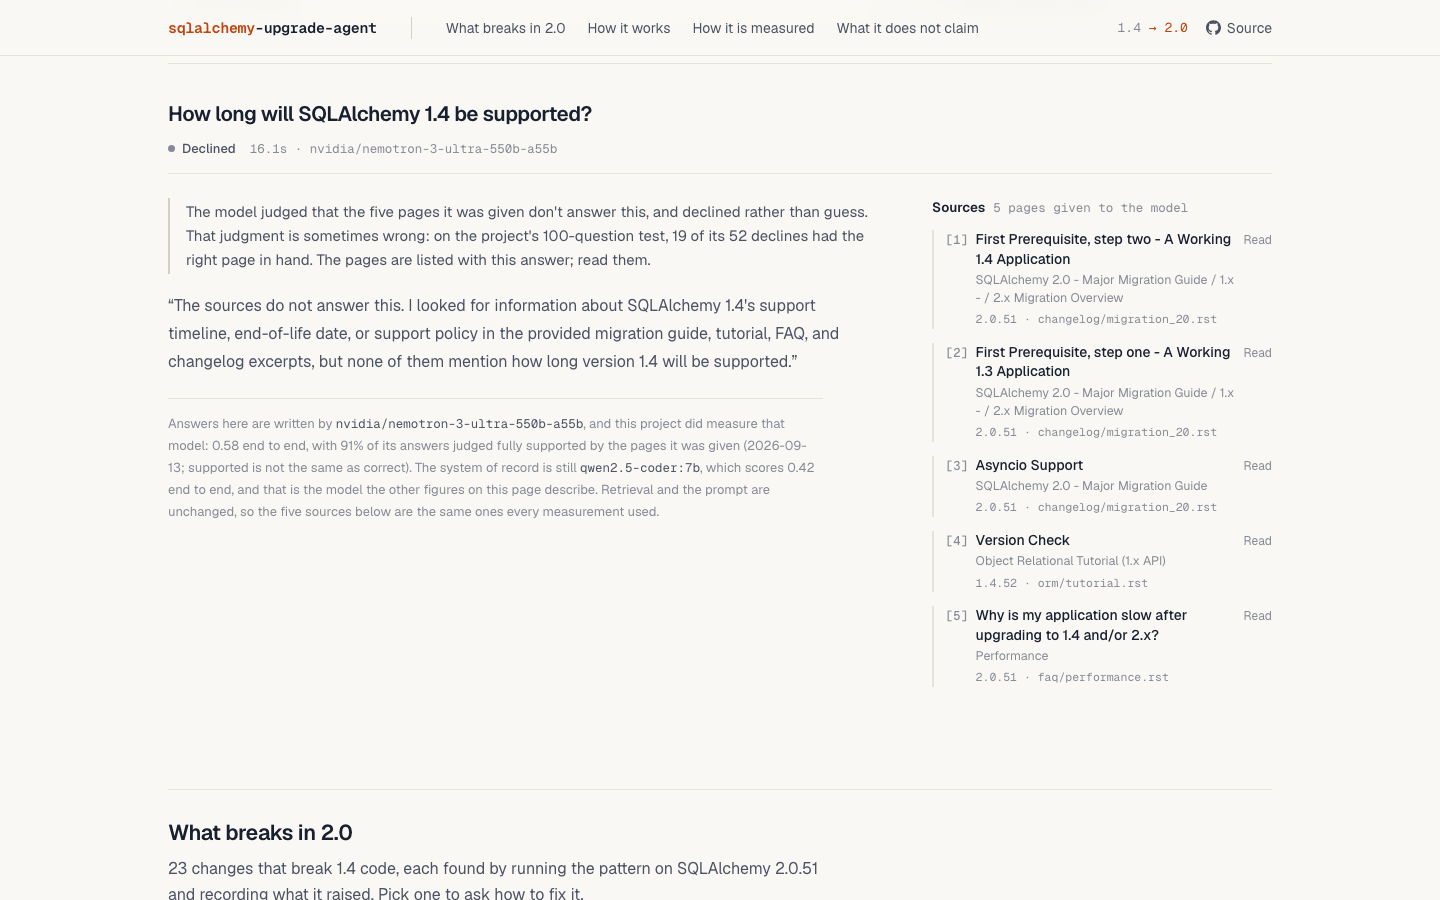
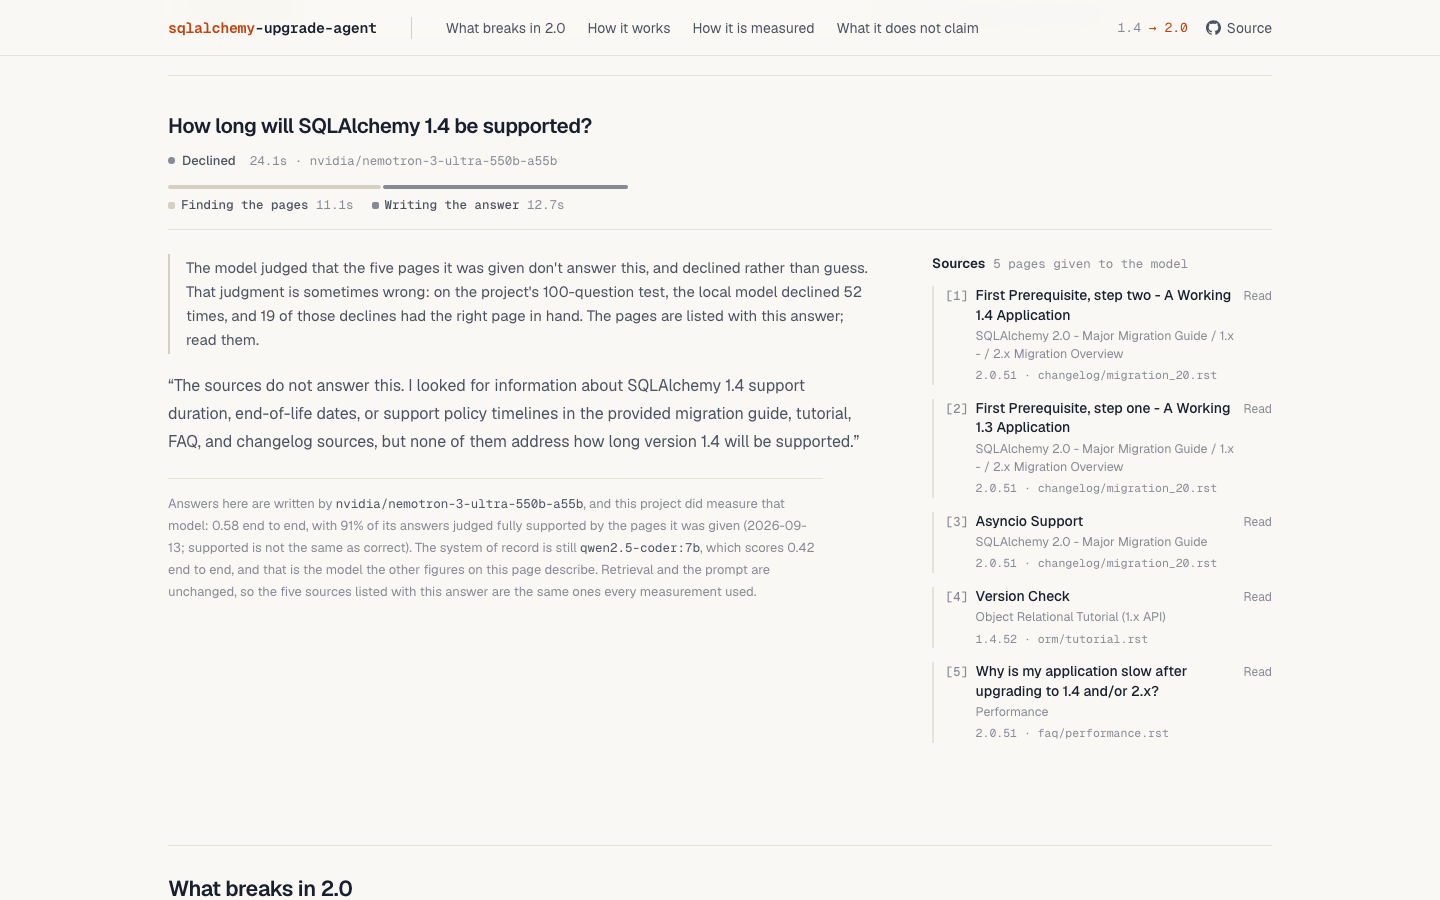
docs: retake the answered and declined screenshots from the live page
Both now show the time split under the status line, and the declined note in
its corrected wording. Taken from the deployed page at 1440x900.

tools/check_page_live.py looked for the working state 300 ms after a click; the
page now holds it back 600 ms so a rejected question does not blink the answer
away, so the check looks at 900 ms. 19 of 19 against the deployed page.

diff --git a/tools/check_page_live.py b/tools/check_page_live.py
@@ -73,7 +73,10 @@ with sync_playwright() as p:
     print("\nSEND BUTTON")
     pg.fill("#q", "engine.execute is gone, how do I run a select in 2.0")
     pg.click("#ask")
-    pg.wait_for_timeout(300)
+    # The page holds the working state back 600 ms, so that a question the server
+    # rejects at once is reported in the box without the answer on screen blinking
+    # away. Looking at 300 ms would see the old answer still there.
+    pg.wait_for_timeout(900)
     mid = state(pg)
     check(
         "button disables and a working state shows while it runs",
